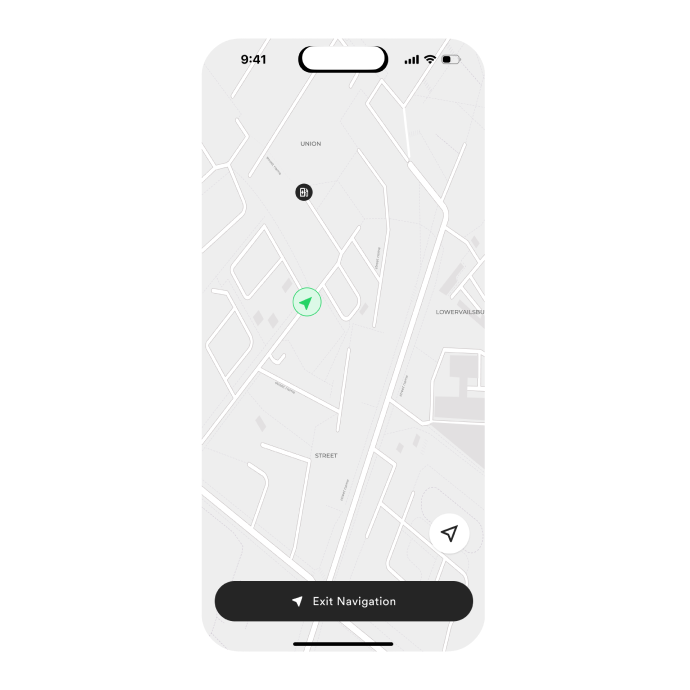
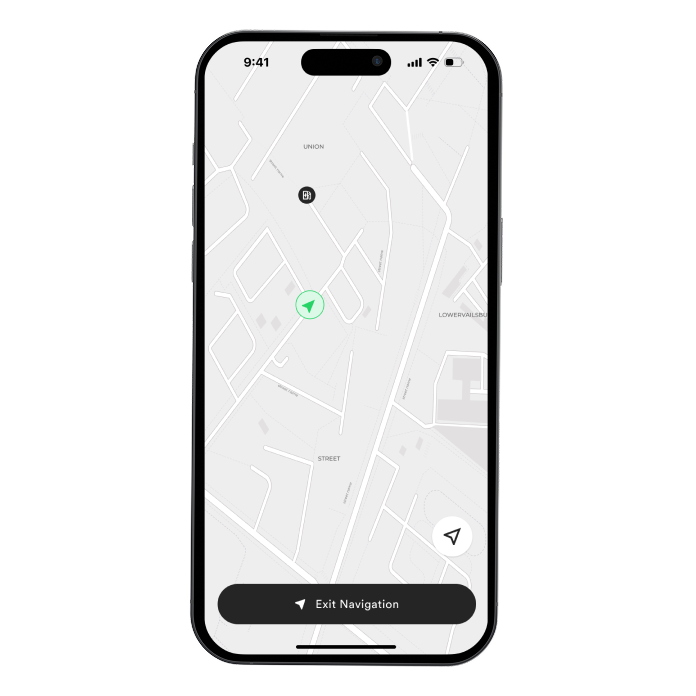
Draft: left journey phone with its frame

diff --git a/components/surechargex-journey.tsx b/components/surechargex-journey.tsx
@@ -10,7 +10,7 @@ const DIR = "/images/case-studies/surechargex/journey";
 // in the artwork, and where its screen sits inside the square.
 const STAGE = { w: 1328, h: 747 };
 const PHONES = {
-  left: { size: 690, cx: 292, cy: 624, tilt: -9.5, screen: [202, 38, 283, 614] },
+  left: { size: 696, cx: 291, cy: 624, tilt: -9.5, screen: [204, 40, 283, 614] },
   middle: { size: 696, cx: 664, cy: 505, tilt: 0, screen: [204, 40, 283, 614] },
   right: { size: 696, cx: 1035, cy: 624, tilt: 9.5, screen: [204, 40, 283, 614] },
 } as const;
@@ -123,7 +123,7 @@ export function SureChargeXJourney({ alt }: { alt: string }) {
 
       {/* Left: driving to the station */}
       <div aria-hidden="true" className={`${styles.phone} ${styles.riseLate}`} style={phoneStyle("left")}>
-        <Image src={`${DIR}/phone-left.png`} alt="" width={690} height={690} sizes={PHONE_SIZES} className={styles.fill} />
+        <Image src={`${DIR}/phone-left.png`} alt="" width={696} height={696} sizes={PHONE_SIZES} className={styles.fill} />
         <div className={styles.screen} style={screenStyle("left")}>
           <svg viewBox="0 0 393 852" fill="none" className={styles.route}>
             <path
